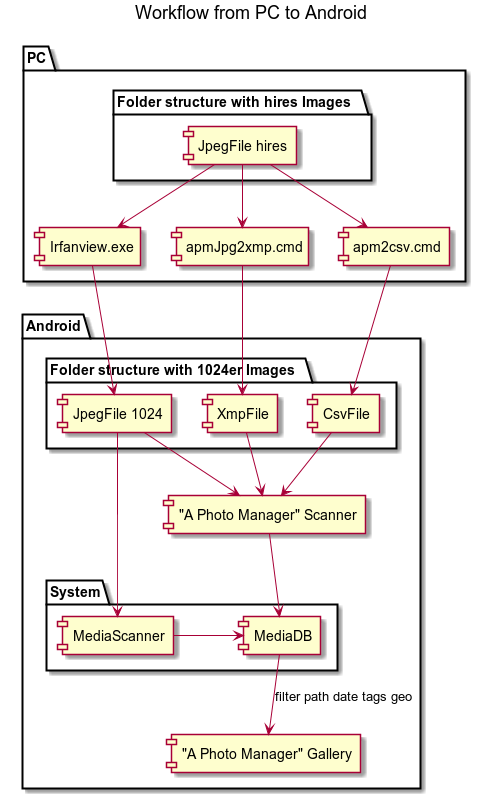
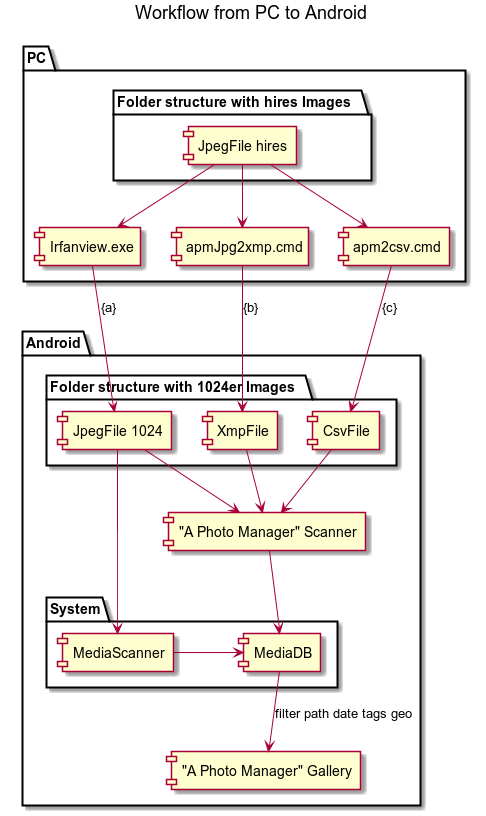
#25: updated tag related docs

diff --git a/app/src/main/java/de/k3b/android/androFotoFinder/media/package-info.java b/app/src/main/java/de/k3b/android/androFotoFinder/media/package-info.java
@@ -56,13 +56,13 @@ pc2android.png
     }
 
     [JpegFile hires] -> [Irfanview.exe]
-    [Irfanview.exe] -> [JpegFile 1024]
+    [Irfanview.exe] -> [JpegFile 1024] : {a}
 
     [JpegFile hires] -> [apmJpg2xmp.cmd]
-    [apmJpg2xmp.cmd] -> [XmpFile] : {a}
+    [apmJpg2xmp.cmd] -> [XmpFile] : {b}
 
     [JpegFile hires] -> [apm2csv.cmd]
-    [apm2csv.cmd] -> [CsvFile] : {b}
+    [apm2csv.cmd] -> [CsvFile] : {c}
 
     [JpegFile 1024] -> [MediaScanner]
     [MediaScanner] -> [MediaDB]
